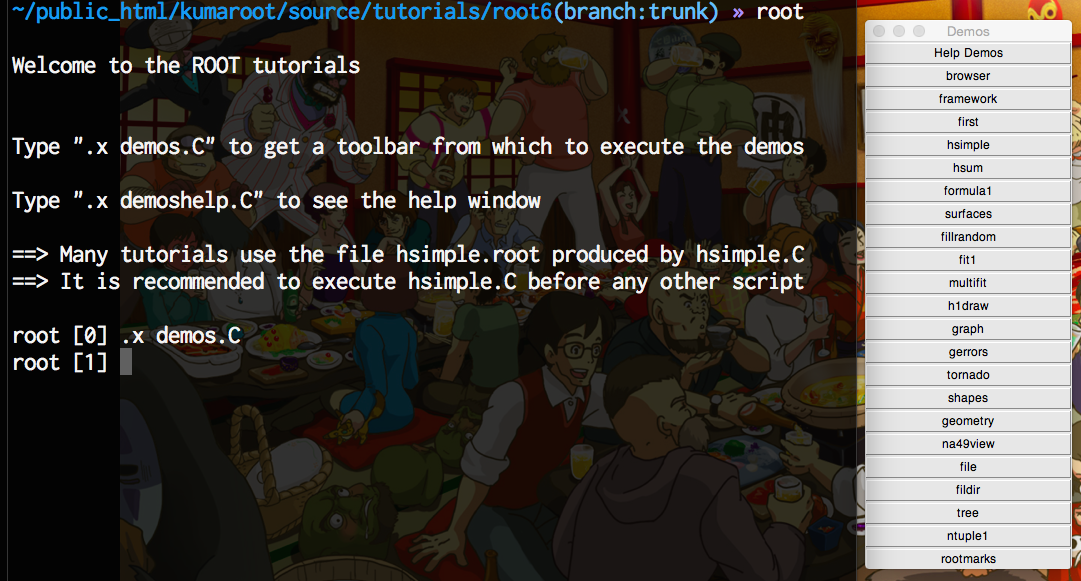
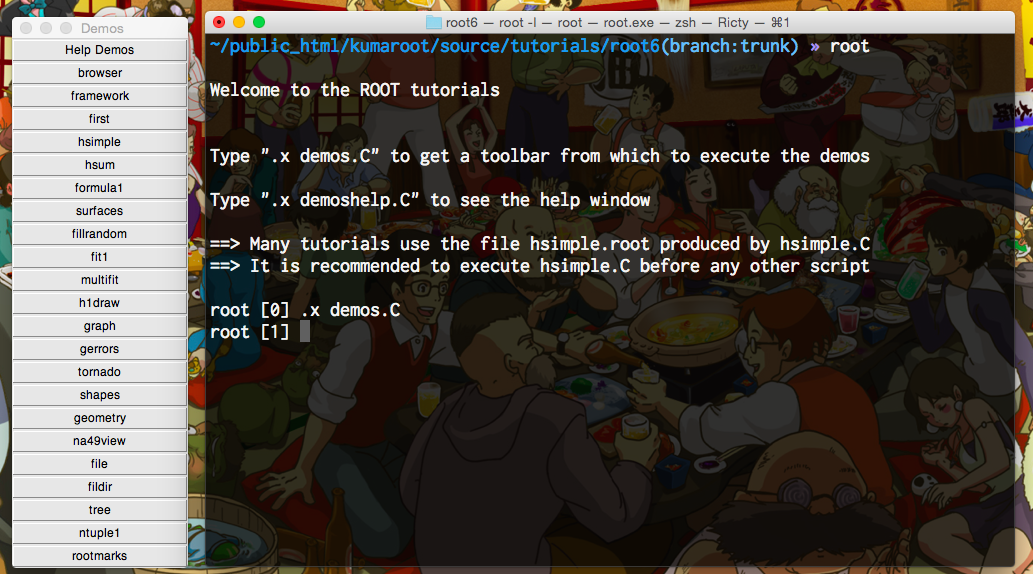
M : Update figures

diff --git a/source/root-tutorial-demos.rst b/source/root-tutorial-demos.rst
@@ -11,7 +11,7 @@ CINTで実行する場合は :command:`.x demos.C` と入力します。
 シェルから実行する場合は :command:`root demos.C` のようにファイルを引数に指定します。
 どちらの場合もファイル名の部分は ``TAB補完`` ができます。
 
-すると :numref:`fig-root-demos` の右端のように ``Demos ツールバー`` が出てきます。
+実行すると :numref:`fig-root-demos` の左端のように ``Demos ツールバー`` が出てきます。
 
 .. _fig-root-demos:
 .. figure:: ./root-tutorial/root-demos.png
@@ -38,3 +38,12 @@ CINTで実行する場合は :command:`.x demos.C` と入力します。
 
 ``Demos ツールバー`` の上から５番目の ``hsimple`` ボタンをクリックするか、CINTに :command:`.x hsimple.C` と入力します。
 シェルに :command:`root hsimple.C` と入力してもOKです。
+
+実行すると :numref:`fig-root-demos-hsimple` のようなヒストグラムが描かれた画面が出てきます。
+
+.. _fig-root-demos-hsimple:
+.. figure:: ./root-tutorial/root-demos-hsimple.png
+   :align: center
+
+
+   ``hsimple`` を実行したときの画面
